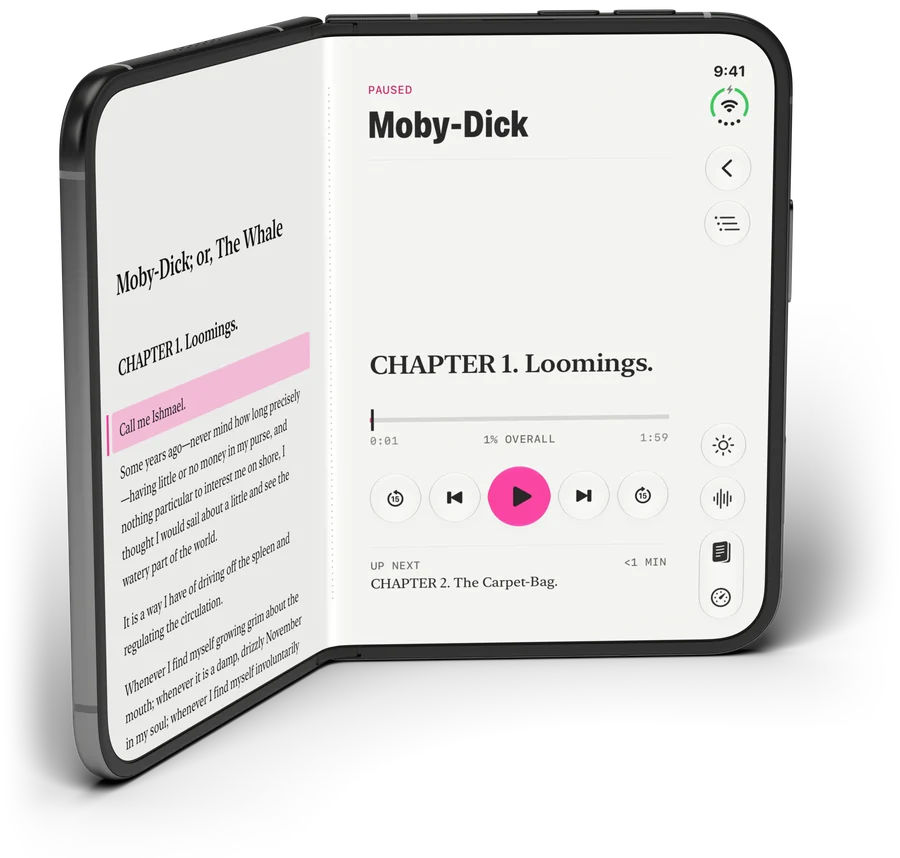
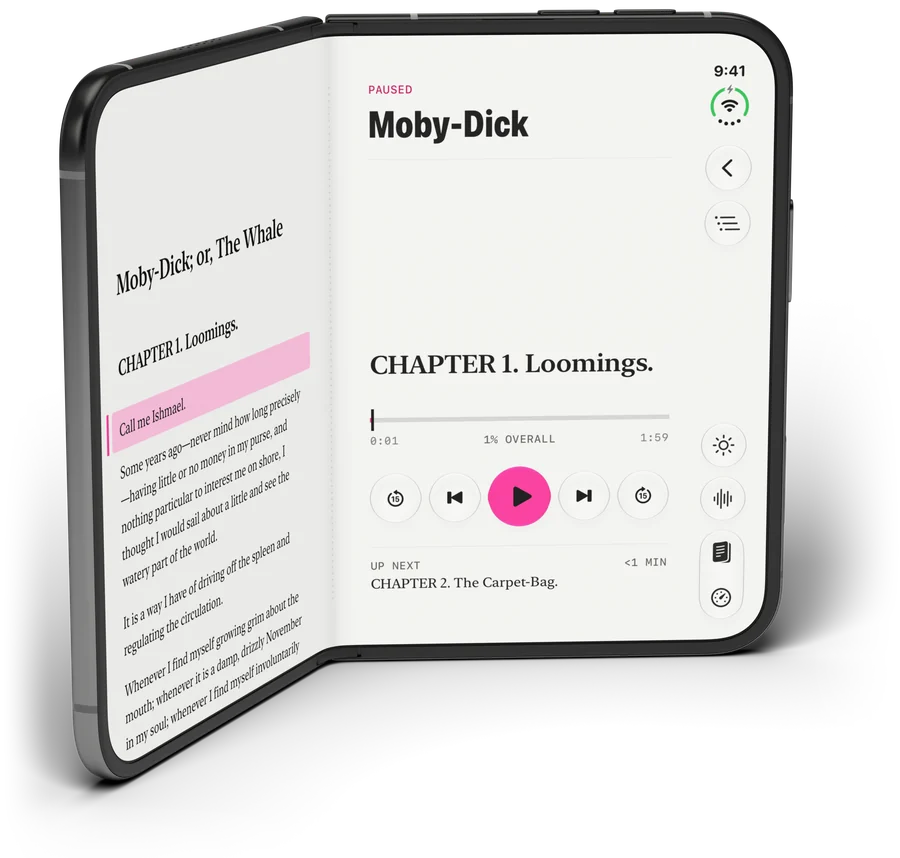
Homepage catalog: Duo screens captured at the fold angle, opening spacing
The renders' screens are now captured with the simulator's hinge at each
pose's angle (118° standing, 152° front), so Prismark draws its own spine
shading instead of the flat-device look, and the render no longer brightens
the crease. On narrow screens the index gets room above the role line,
which otherwise sat right under it when the Duo row was short.

diff --git a/index.html b/index.html
@@ -26,8 +26,8 @@
 <meta name="twitter:description" content="Apps, tools, and contributions to Godot Engine by Zachary Coleman.">
 <meta name="twitter:image" content="https://zach-coleman.com/assets/home/coastal-preview.jpg?v=8290d9ab4705">
 <meta name="twitter:image:alt" content="A ferry crosses a rendered coastal inlet beneath Zachary Coleman's name and the words Apps, tools, and open-source software.">
-<link rel="preload" as="image" imagesrcset="/assets/catalog/duo-standing-900.webp 900w, /assets/catalog/duo-standing-1400.webp 1400w" imagesizes="(min-width: 760px) 31vw, 74vw" fetchpriority="high">
-<link rel="stylesheet" href="/assets/catalog/catalog.css?v=20261005-4">
+<link rel="preload" as="image" imagesrcset="/assets/catalog/duo-standing-900.webp?v=3 900w, /assets/catalog/duo-standing-1400.webp?v=3 1400w" imagesizes="(min-width: 760px) 31vw, 74vw" fetchpriority="high">
+<link rel="stylesheet" href="/assets/catalog/catalog.css?v=20261005-5">
 <script src="/assets/home/devices.js?v=20261001-watch-video" defer></script>
 </head>
 <body>
@@ -55,7 +55,7 @@
     </div>
   </nav>
   <div class="stage">
-    <img class="stage-object" src="/assets/catalog/duo-standing-900.webp" srcset="/assets/catalog/duo-standing-900.webp 900w, /assets/catalog/duo-standing-1400.webp 1400w" sizes="(min-width: 760px) 31vw, 74vw" width="1400" height="1335" alt="Prismark on a partly folded iPhone Duo standing like an open book: Moby-Dick on the left page with &ldquo;Call me Ishmael.&rdquo; highlighted in pink, the player on the right." fetchpriority="high" decoding="async">
+    <img class="stage-object" src="/assets/catalog/duo-standing-900.webp?v=3" srcset="/assets/catalog/duo-standing-900.webp?v=3 900w, /assets/catalog/duo-standing-1400.webp?v=3 1400w" sizes="(min-width: 760px) 31vw, 74vw" width="1400" height="1335" alt="Prismark on a partly folded iPhone Duo standing like an open book: Moby-Dick on the left page with &ldquo;Call me Ishmael.&rdquo; highlighted in pink, the player on the right." fetchpriority="high" decoding="async">
     <h1 class="name"><span>Zachary</span> <span>Coleman</span></h1>
   </div>
   <p class="role"><strong>iOS developer.</strong> <span>Apps, tools, and open&#8209;source software.</span></p>
@@ -74,7 +74,7 @@
     <p class="links"><a href="https://testflight.apple.com/join/zeH4fhQ3">Join the beta on TestFlight</a></p>
   </div>
   <figure class="plate plate-duo">
-    <img src="/assets/catalog/duo-fold-1100.webp" srcset="/assets/catalog/duo-fold-1100.webp 1100w, /assets/catalog/duo-fold-2000.webp 2000w" sizes="(min-width: 900px) 60vw, 100vw" width="2000" height="1086" alt="Prismark on a partly folded iPhone Duo: Moby-Dick on the left page with the spoken sentence highlighted, the player on the right." loading="lazy" decoding="async">
+    <img src="/assets/catalog/duo-fold-1100.webp?v=3" srcset="/assets/catalog/duo-fold-1100.webp?v=3 1100w, /assets/catalog/duo-fold-2000.webp?v=3 2000w" sizes="(min-width: 900px) 60vw, 100vw" width="2000" height="1083" alt="Prismark on a partly folded iPhone Duo: Moby-Dick on the left page with the spoken sentence highlighted, the player on the right." loading="lazy" decoding="async">
   </figure>
 </article>
 

diff --git a/assets/catalog/catalog.css b/assets/catalog/catalog.css
@@ -72,7 +72,7 @@ main [id],footer[id]{scroll-margin-top:calc(env(safe-area-inset-top,0px) + 24px)
 .cover-inner{position:relative;display:grid;grid-template-columns:repeat(2,minmax(0,1fr));column-gap:var(--gap);padding-bottom:clamp(30px,5cqi,56px);--name:27.4cqi}
 .cover-inner::before{content:"";position:absolute;left:50%;top:-100px;bottom:0;border-left:1px solid var(--rule)}
 
-.index{grid-column:1/-1;grid-row:1;display:grid;grid-template-columns:repeat(2,minmax(0,1fr));column-gap:var(--gap);font-size:16px;line-height:1.45}
+.index{grid-column:1/-1;grid-row:1;display:grid;grid-template-columns:repeat(2,minmax(0,1fr));column-gap:var(--gap);font-size:16px;line-height:1.45;margin-bottom:clamp(24px,8cqi,40px)}
 .index-head{font-weight:600;padding-bottom:2px}
 .index a{display:inline-block;padding:2px 0;text-decoration-color:transparent}
 .index a:hover{text-decoration-color:currentColor}
@@ -89,7 +89,7 @@ main [id],footer[id]{scroll-margin-top:calc(env(safe-area-inset-top,0px) + 24px)
 
 @container (min-width:760px){
   .cover-inner{--name:14cqi}
-  .index{grid-column:1;grid-row:1;align-self:start}
+  .index{grid-column:1;grid-row:1;align-self:start;margin-bottom:0}
   .stage-object{grid-row:1/span 2;align-self:end;width:min(31cqi,500px);margin:0 0 calc(var(--name) * -.44) 0}
   .role{padding-bottom:calc(var(--name) * .16);font-size:clamp(18px,1.6cqi,22px)}
   .name span{display:inline}
